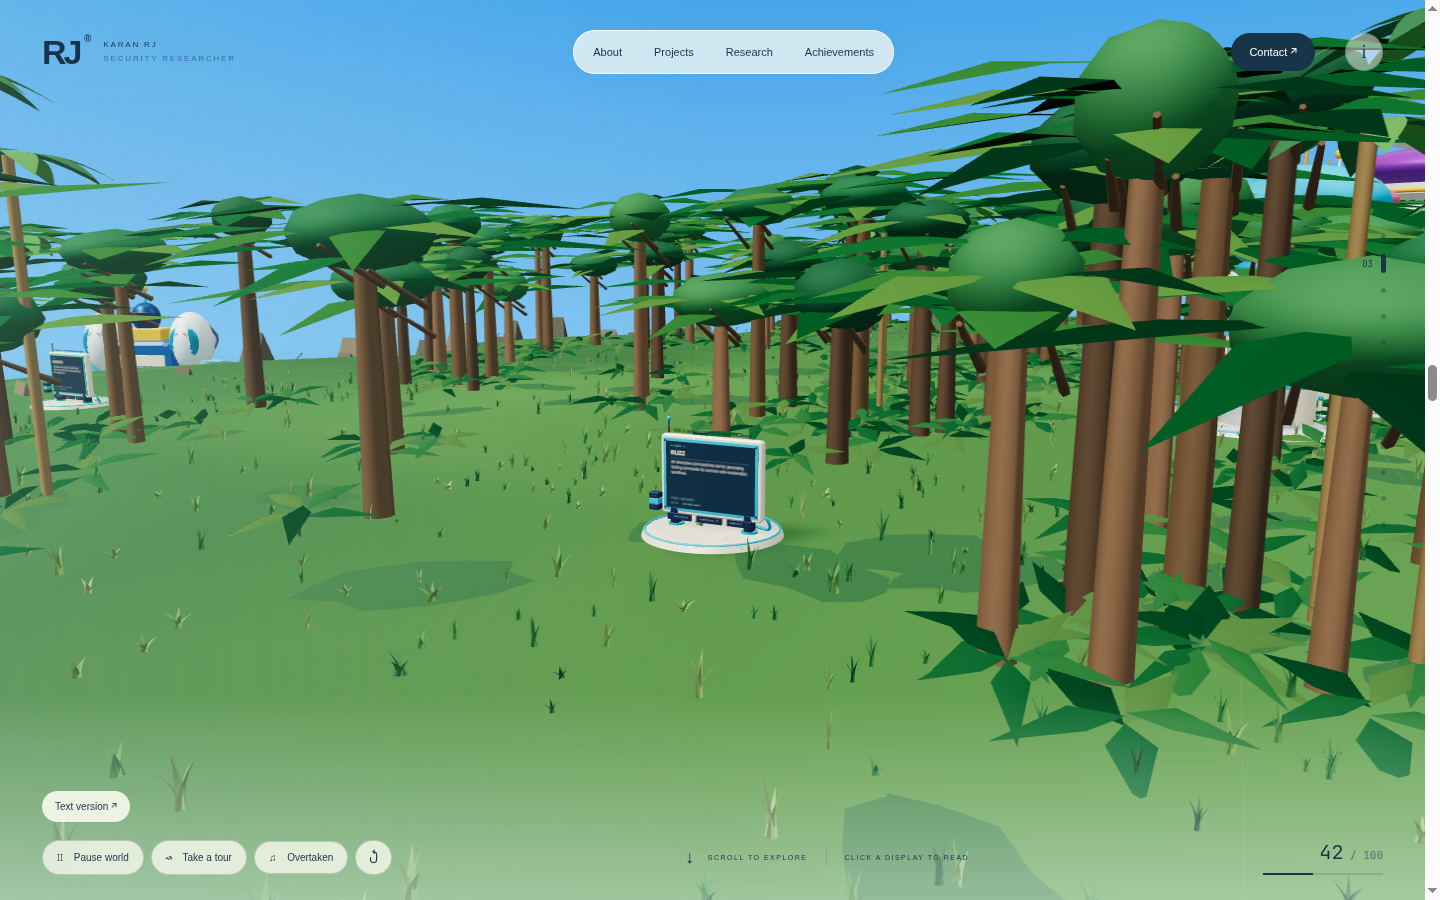
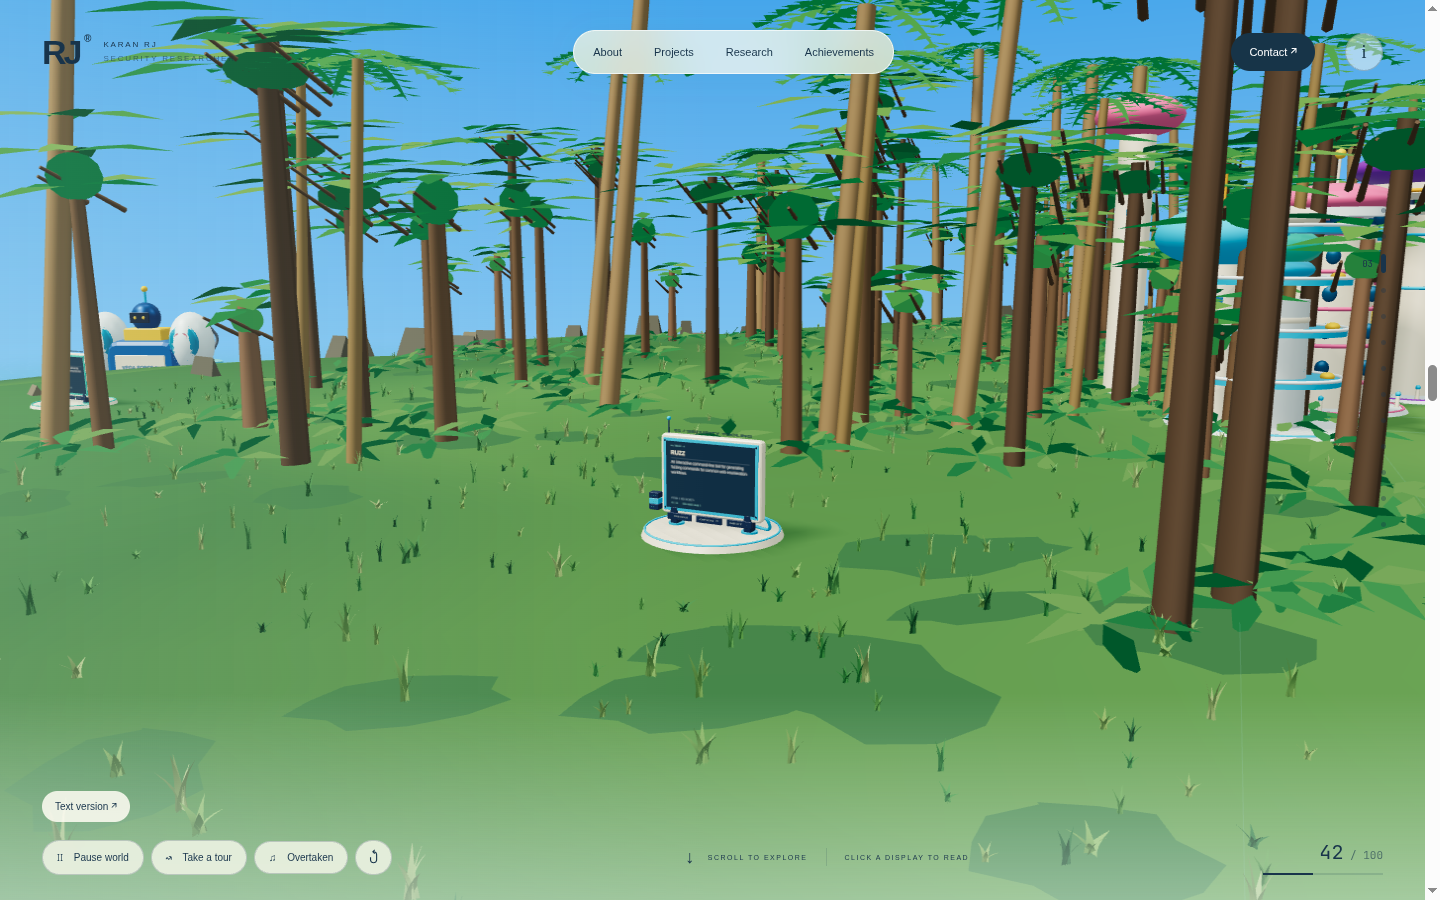
Vary Egghead forest with giant palms and layered trees

diff --git a/src/megaworld.js b/src/megaworld.js
@@ -9,9 +9,17 @@ const painted=new T.MeshStandardMaterial({color:0xffffff,roughness:.85});
 function palmLeaf(){
  const vertices=[],indices=[];
  for(let j=0;j<=9;j++){
-  const t=j/9,w=Math.sin(Math.PI*t)*.52;
+  const t=j/9,w=Math.sin(Math.PI*t)*.20;
   vertices.push(-w,.2*Math.sin(Math.PI*t)-1.05*t*t,3.7*t,w,.2*Math.sin(Math.PI*t)-1.05*t*t,3.7*t);
   if(j<9){const k=j*2;indices.push(k,k+2,k+1,k+1,k+2,k+3);}
+ }
+ for(let j=2;j<=8;j++){
+  const t=j/9,z=3.7*t,y=.2*Math.sin(Math.PI*t)-1.05*t*t,w=(.62+.28*Math.sin(Math.PI*t));
+  for(const side of [-1,1]){
+   const k=vertices.length/3;
+   vertices.push(0,y,z,side*w,y-.10,z+.34,side*w*.27,y-.04,z+.68);
+   indices.push(k,k+1,k+2);
+  }
  }
  const g=new T.BufferGeometry();g.setAttribute('position',new T.Float32BufferAttribute(vertices,3));g.setIndex(indices);g.computeVertexNormals();return g;
 }
@@ -147,22 +155,30 @@ function bubbleHabitat(parent,x,z,colour,n){
 export function createMegaFabriophase(world,{low=false}={}){
  const district=new T.Group();district.name='FABRIOPHASE_FOREST_AND_CITY';world.add(district);
  const canopyLeaves=[],canopyCores=[],forestTrunks=[],forestBranches=[],understoryLeaves=[],trunks=[],fronds=[],rocks=[],roofs=[],columns=[],windows=[],antennae=[],grass=[],moss=[];
- let palms=0,pods=0;
- // Tall trunks, separate leaf fans and a low understory replace the old dome-like canopy.
+ let palms=0,pods=0,spreadingTrees=0,umbrellaTrees=0,youngTrees=0,giantPalms=0;
+ // Egghead's shore mixes giant palms with broad, tiered and young tropical trees.
  for(let i=0;i<(low?470:660);i++){
   const a=i*2.3999632,r=64+random()*88,x=Math.cos(a)*r,z=Math.sin(a)*r*.802;
   if(x < -142 && z>10 && z<82||!sightlineClear(x,z))continue;
-  const height=7.5+random()*7.5,width=4.3+random()*3.7,crownY=1.75+height;
-  forestTrunks.push([x,1.75+height*.5,z,.43+random()*.3,height,.43+random()*.3,[0x5d4935,0x71573b,0x846448][i%3],a]);
-  canopyCores.push([x,crownY-.15,z,width*.38,1.2+random()*.6,width*.37,[0x1b5936,0x22683d,0x367841][i%3],a]);
-  for(let f=0;f<12;f++){
-   const angle=f*Math.PI*2/12+random()*.38,tier=f%4===0?-.8:f%3===0?.75:0;
-   const origin=(f%3)*.55,length=width*(.8+random()*.6);
-   canopyLeaves.push([x+Math.sin(angle)*origin,crownY+tier,z+Math.cos(angle)*origin,2.2+random()*1.5,1.1+random()*.35,length,[0x174f32,0x246d3b,0x348044,0x4b9146,0x6da34d][(i+f)%5],[.04+random()*.17,angle,0]]);
-  }
-  for(let b=0;b<3;b++){
-   const angle=a+b*Math.PI*2/3,length=2+random()*2.1;
-   forestBranches.push([x+Math.sin(angle)*length*.36,crownY-2.3+b*.45,z+Math.cos(angle)*length*.36,.16,length,.16,0x665039,[Math.PI/2-.45,angle,0]]);
+  const giantPalm=i%7===0,type=i%3;
+  if(!giantPalm){
+   const height=type===0?15+random()*9:type===1?11+random()*9:7+random()*5;
+   const width=type===0?6.5+random()*3:type===1?4.6+random()*2:3.7+random()*1.8;
+   const crownY=1.75+height,leaves=type===0?15:type===1?12:9;
+   if(type===0)spreadingTrees++;else if(type===1)umbrellaTrees++;else youngTrees++;
+   forestTrunks.push([x,1.75+height*.5,z,.43+random()*.36,height,.43+random()*.36,[0x5d4935,0x71573b,0x846448][i%3],a]);
+   canopyCores.push([x,crownY-1.3,z,width*(type===0?.22:.25),type===1?1.3:.85,width*(type===0?.22:.25),[0x1b5936,0x22683d,0x367841][i%3],a]);
+   for(let f=0;f<leaves;f++){
+    const branch=type===0?Math.floor(f/5):0,base=a+branch*Math.PI*2/3;
+    const angle=type===0?base+f*Math.PI*2/5+random()*.2:f*Math.PI*2/leaves+random()*.3;
+    const offset=type===0?width*.38:0,tier=type===1?(f%3-1)*1.8:type===2?(f%3-1)*.65:(f%5-2)*.34;
+    const length=width*(type===0?.63:type===1?.85:.75)*(1+random()*.42);
+    canopyLeaves.push([x+Math.sin(base)*offset,crownY+tier,z+Math.cos(base)*offset,2.1+random()*1.5,1+random()*.3,length,[0x174f32,0x246d3b,0x348044,0x4b9146,0x6da34d][(i+f)%5],[.07+random()*.14,angle,0]]);
+   }
+   for(let b=0;b<(type===0?5:3);b++){
+    const angle=a+b*Math.PI*2/(type===0?5:3),length=type===0?3+random()*3:2+random()*2;
+    forestBranches.push([x+Math.sin(angle)*length*.36,crownY-2.3+b*.35,z+Math.cos(angle)*length*.36,.16,length,.16,0x665039,[Math.PI/2-.45,angle,0]]);
+   }
   }
   const shrubs=2+(i%2);
   for(let s=0;s<shrubs;s++){
@@ -173,9 +189,18 @@ export function createMegaFabriophase(world,{low=false}={}){
     understoryLeaves.push([px,2.0+random()*.6,pz,.9+random()*.55,1,2.3+random()*1.0,[0x205b37,0x337846,0x458c4e,0x6a9953][(i+s+l)%4],[.15+random()*.2,direction,0]]);
    }
   }
-  if(i%5===0){const h=11+random()*6;palms++;
-   trunks.push([x+2,1.75+h/2,z-1,.22,h,.22,0x94784a,a]);
-   for(let f=0;f<10;f++){const q=f*Math.PI*2/10;fronds.push([x+2,1.75+h,z-1,1.1,1,1.1,f%2?0x326e40:0x529043,q]);}
+  if(giantPalm||i%11===0){
+   const h=giantPalm?23+random()*11:16+random()*8,px=x+(giantPalm?0:2.4),pz=z-(giantPalm?0:1.6);
+   const lean=giantPalm?.10+random()*.08:.05+random()*.06,tilt=[Math.cos(a)*lean,a,Math.sin(a)*lean];
+   const half=new T.Vector3(0,h/2,0).applyEuler(new T.Euler(...tilt));
+   const topX=px+half.x*2,topZ=pz+half.z*2,topY=1.75+h/2+half.y;
+   trunks.push([px+half.x,1.75+half.y,pz+half.z,giantPalm?.7:.4,h,giantPalm?.7:.4,giantPalm?0x967a51:0x927747,tilt]);
+   const frondCount=giantPalm?(low?9:13):(low?8:10);
+   for(let f=0;f<frondCount;f++){
+    const q=f*Math.PI*2/frondCount+a;
+    fronds.push([topX,topY,topZ,giantPalm?(low?1.45:2.4):(low?1.15:1.8),giantPalm?(low?1.6:2.6):(low?1.2:1.7),giantPalm?(low?1.65:2.6):(low?1.35:2.0),f%3?0x286d3d:0x4d9849,q]);
+   }
+   palms++;if(giantPalm)giantPalms++;
   }
  }
  for(let i=0;i<(low?2800:5000);i++){
@@ -208,17 +233,17 @@ export function createMegaFabriophase(world,{low=false}={}){
   windows.push([x,2+h*.66,z+w*.57,w*.28,.45,.1,0x267aa0]);
   if(i%3===0)antennae.push([x,2+h+w*.6+1,z,.09,2,.09,C.gold]);
  }
- const leafMaterial=new T.MeshLambertMaterial({color:0xffffff,side:T.DoubleSide});
+ const leafMaterial=low?new T.MeshBasicMaterial({color:0xffffff,side:T.DoubleSide}):new T.MeshLambertMaterial({color:0xffffff,side:T.DoubleSide});
  instances(district,'Coastal_Forest_Trunks',new T.CylinderGeometry(.64,1,1,7),forestTrunks);
  instances(district,'Coastal_Forest_Branches',new T.CylinderGeometry(.55,1,1,5),forestBranches);
- instances(district,'Coastal_Forest_Canopy_Cores',new T.IcosahedronGeometry(1,1),canopyCores);
+ instances(district,'Coastal_Forest_Canopy_Cores',new T.IcosahedronGeometry(1,1),canopyCores,low?new T.MeshBasicMaterial({color:0xffffff}):new T.MeshLambertMaterial({color:0xffffff})).receiveShadow=false;
  instances(district,'Coastal_Forest_Leaf_Fans',forestLeaf(),canopyLeaves,leafMaterial).receiveShadow=false;
  instances(district,'Coastal_Forest_Understory',forestLeaf(),understoryLeaves,leafMaterial).receiveShadow=false;
  instances(district,'Egghead_Living_Grass',grassClump(),grass,new T.MeshStandardMaterial({color:0xffffff,roughness:1,side:T.DoubleSide}));
  instances(district,'Moss_And_Meadow_Patches',groundPatch(),moss,new T.MeshStandardMaterial({color:0xffffff,roughness:1,side:T.DoubleSide}));
  instances(district,'Weathered_Cliff_Faces',new T.DodecahedronGeometry(1,0),rocks);
- instances(district,'Shoreline_Palm_Trunks',new T.CylinderGeometry(1,1,1,8),trunks);
- instances(district,'Shoreline_Palm_Fronds',palmLeaf(),fronds,new T.MeshStandardMaterial({color:0xffffff,roughness:.95,side:T.DoubleSide}));
+ instances(district,'Shoreline_Palm_Trunks',new T.CylinderGeometry(.72,1,1,8,5),trunks);
+ instances(district,'Shoreline_Palm_Fronds',palmLeaf(),fronds,low?new T.MeshBasicMaterial({color:0xffffff,side:T.DoubleSide}):new T.MeshLambertMaterial({color:0xffffff,side:T.DoubleSide})).receiveShadow=false;
  instances(district,'Fabriophase_Satellite_Columns',new T.CylinderGeometry(1,1,1,16),columns);
  instances(district,'Fabriophase_Satellite_Domes',new T.SphereGeometry(1,20,12),roofs);
  instances(district,'Fabriophase_Satellite_Windows',new T.BoxGeometry(1,1,1),windows);
@@ -244,5 +269,5 @@ export function createMegaFabriophase(world,{low=false}={}){
  for(const [x,z,c] of [[-46,49,C.cyan],[39,54,C.pink],[-3,68,C.yellow]]){
   if(exhibitClearance(x,z,12)&&sightlineClear(x,z)){bubbleHabitat(district,x,z,c,habitats);habitats++;}
  }
- return {radiusX:ISLAND_RADII.x,radiusZ:ISLAND_RADII.z,areaScale:(ISLAND_RADII.x*ISLAND_RADII.z)/(66*53),pods,palms,coastalCanopies:canopyCores.length,leafDetails:canopyLeaves.length,forestTrunks:forestTrunks.length,understoryLeaves:understoryLeaves.length,grassClumps:grass.length,mossPatches:moss.length,cliffRocks:rocks.length,detailedBuildings,habitats};
+ return {radiusX:ISLAND_RADII.x,radiusZ:ISLAND_RADII.z,areaScale:(ISLAND_RADII.x*ISLAND_RADII.z)/(66*53),pods,palms,giantPalms,spreadingTrees,umbrellaTrees,youngTrees,coastalCanopies:canopyCores.length,leafDetails:canopyLeaves.length,forestTrunks:forestTrunks.length,understoryLeaves:understoryLeaves.length,grassClumps:grass.length,mossPatches:moss.length,cliffRocks:rocks.length,detailedBuildings,habitats};
 }

diff --git a/index.html b/index.html
@@ -39,6 +39,6 @@
   <div class="world-link" id="world-link" role="status" aria-live="polite"></div>
   <dialog id="about"><button id="close-about" aria-label="Close about">×</button><p class="eyebrow">RJ / WORLD 001</p><h2>A world worth<br>getting lost in.</h2><p>Your portfolio lives inside the island. Visit the introduction dock, six project terminals, the achievement observatory, research laboratory, advisory vault, writing archive and communications station.</p><p>Scroll to travel. Click the buttons on the physical displays. Drag the open scene to look around. Use the numbered route to jump between exhibits. A text version is available for keyboard and screen-reader access.</p><small>Unofficial ONE PIECE fan-art study. Independently authored 3D interpretation; not an official or exhaustive replica.</small></dialog>
   <dialog id="soundtrack" aria-labelledby="soundtrack-title"><button class="close-dialog" id="close-soundtrack" aria-label="Close soundtrack and stop playback">×</button><p class="eyebrow">THE SOUND OF ADVENTURE</p><h2 id="soundtrack-title">Overtaken.</h2><p>From the ONE PIECE original soundtrack.<br>Kōhei Tanaka · Shirō Hamaguchi</p><div id="music-player"></div><p class="music-note">Press play in Spotify. Full playback depends on your Spotify account and region.</p><a href="https://open.spotify.com/track/5Gt3KAUrjFBjVNgMngjCXZ" target="_blank" rel="noopener noreferrer">Open in Spotify ↗</a></dialog>
-  <script type="module" src="src/main.js?v=15"></script>
+  <script type="module" src="src/main.js?v=16"></script>
 </body>
 </html>

diff --git a/src/main.js b/src/main.js
@@ -2,7 +2,7 @@ import './music.js?v=5';
 import {createPortfolioWorld} from './portfolio.js?v=13';
 import * as T from '../assets/vendor/three.module.min.js';
 import {RoomEnvironment} from '../assets/vendor/environments/RoomEnvironment.js';
-import {createEgghead,createOcean} from './world.js?v=15';
+import {createEgghead,createOcean} from './world.js?v=16';
 import {destinations,chapterIndex,TOUR_SECONDS,updateCamera,advanceJourney,cameraPose} from './journey.js?v=14';
 
 const canvas=document.querySelector('#world'),loading=document.querySelector('#loading-copy'),enter=document.querySelector('#explore'),reduced=matchMedia('(prefers-reduced-motion: reduce)'),query=new URLSearchParams(location.search);

diff --git a/src/world.js b/src/world.js
@@ -3,7 +3,7 @@ import {mergeGeometries} from '../assets/vendor/utils/BufferGeometryUtils.js';
 import {C,materials,paint,add,sphere,cylinder,ring,rod,tube,roundedBox,label,batchWorld} from './geometry.js?v=4';
 import {createZoro} from './zoro.js?v=5';
 import {createAdventure} from './adventure.js?v=14';
-import {createMegaFabriophase,ISLAND_RADII} from './megaworld.js?v=15';
+import {createMegaFabriophase,ISLAND_RADII} from './megaworld.js?v=16';
 import {createSeaFleet} from './fleet.js?v=13';
 import {createEggheadMachines} from './creatures.js?v=14';
 

diff --git a/ASSET-SOURCES.md b/ASSET-SOURCES.md
@@ -4,7 +4,7 @@ The current world uses local Three.js 0.180.0 (MIT; `assets/vendor/three-LICENSE
 
 The previous Island Tree 01 GLBs, packed tree Blender source and photographic sky JPEG are retained locally as unused historical assets. They are no longer loaded and are excluded from this publication. All mentions of them in the historical notes below refer to the earlier revision.
 
-The current island has radii of 172 × 138 world units. Human and Sunny geometry retain their authored scale. `src/megaworld.js` makes the grass clumps, irregular ground patches, tall forest trunks, individual broadleaf crowns, low understory, tropical palms, four architectural families, bubble habitats and city grid. The old dome-shaped forest canopy is no longer used. `src/world.js` makes the layered cliffs, cloud shapes, Punk Records, transit and sea. `src/fleet.js` adds independently authored Marine and pirate ships. `src/creatures.js` adds animated original interpretations of Egghead's mechanical sea beast weapons, service robots and Vega Force 1. These are original 3D fan-art meshes modeled from the submitted visual references and official episode descriptions; the reference screenshots are not bundled as runtime images. Twelve physical exhibits retain separate project, achievement, report, CVE, writing and contact locations. This remains an independently authored interpretation, not official production geometry or a frame-perfect reconstruction.
+The current island has radii of 172 × 138 world units. Human and Sunny geometry retain their authored scale. `src/megaworld.js` makes the grass clumps, irregular ground patches, four distinct coastal tree forms (giant arching palms, spreading broadleaf trees, tiered upright trees and young trees), low understory, four architectural families, bubble habitats and city grid. The giant palms and mixed green lower canopy follow the silhouettes in the supplied Egghead island references; no anime still is loaded at runtime. `src/world.js` makes the layered cliffs, cloud shapes, Punk Records, transit and sea. `src/fleet.js` adds independently authored Marine and pirate ships. `src/creatures.js` adds animated original interpretations of Egghead's mechanical sea beast weapons, service robots and Vega Force 1. These are original 3D fan-art meshes modeled from the submitted visual references and official episode descriptions; the reference screenshots are not bundled as runtime images. Twelve physical exhibits retain separate project, achievement, report, CVE, writing and contact locations. This remains an independently authored interpretation, not official production geometry or a frame-perfect reconstruction.
 
 Reference sources consulted for the visual study:
 - https://one-piece.com/story/egghead/index.html (official story and island context)

diff --git a/README.md b/README.md
@@ -1,6 +1,6 @@
 # Karan RJ — Egghead portfolio
 
-An unofficial, independently authored One Piece Egghead world. The island has 172 × 138 unit radii, with a wider grassland and a dense coastal forest of tall trunks, layered leaf crowns, palms and understory plants around the futuristic city. Its saucer towers, ring laboratories, transparent habitats and transit tubes sit beneath the cloud platform carrying Punk Records. Marine warships, pirate vessels and animated mechanical sea beasts circle the coast; small service robots patrol the city and Vega Force 1 moves through the shallows. Scroll with the Sunny as it circles the island, fires its Coup de Burst, lands at the harbour, then continues through Fabriophase, Zoro's promenade, Emet and Punk Records. Twelve physical displays sit at those locations. Click a display to read it; scroll or press Escape to return to the world.
+An unofficial, independently authored One Piece Egghead world. The island has 172 × 138 unit radii, with a wider grassland and a dense coastal forest around the futuristic city. Giant arched palms rise above spreading broadleaf trees, narrower tiered trees, young growth and understory plants, following the mixed tropical silhouette in the supplied Egghead references. Its saucer towers, ring laboratories, transparent habitats and transit tubes sit beneath the cloud platform carrying Punk Records. Marine warships, pirate vessels and animated mechanical sea beasts circle the coast; small service robots patrol the city and Vega Force 1 moves through the shallows. Scroll with the Sunny as it circles the island, fires its Coup de Burst, lands at the harbour, then continues through Fabriophase, Zoro's promenade, Emet and Punk Records. Twelve physical displays sit at those locations. Click a display to read it; scroll or press Escape to return to the world.
 
 The setting is a stylized fan-art interpretation, not an exact reconstruction of every character and object in the arc. The current characters are Zoro in his Egghead clothing, S-Hawk, Emet and a small Luffy on the Sunny. The scene uses authored geometry, local Three.js and credited wood textures. There are no AI-generated image assets, photographic sky or scanned broadleaf trees in the running scene.
 
